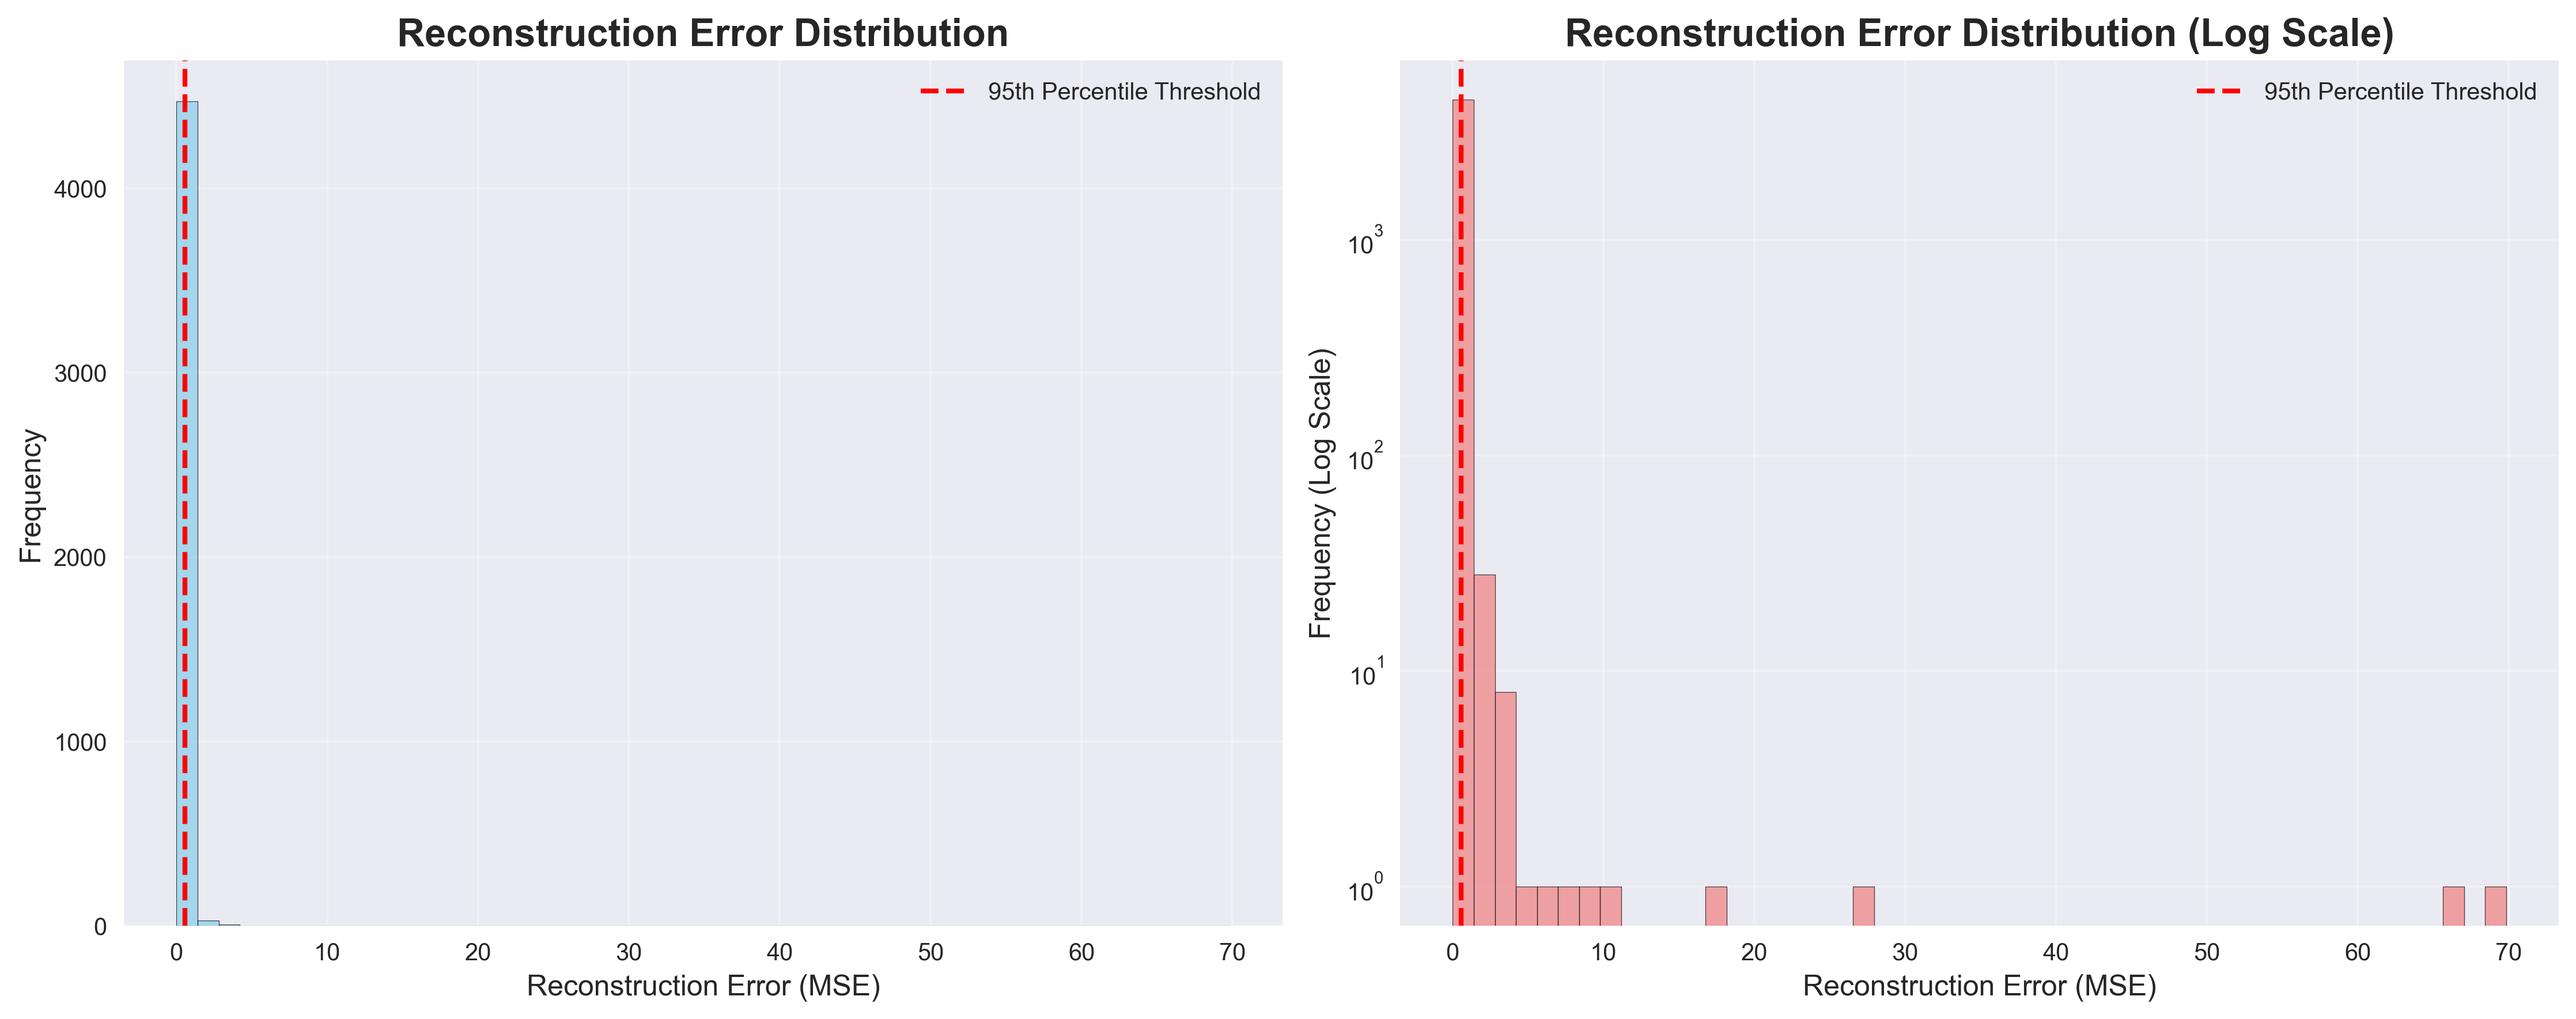
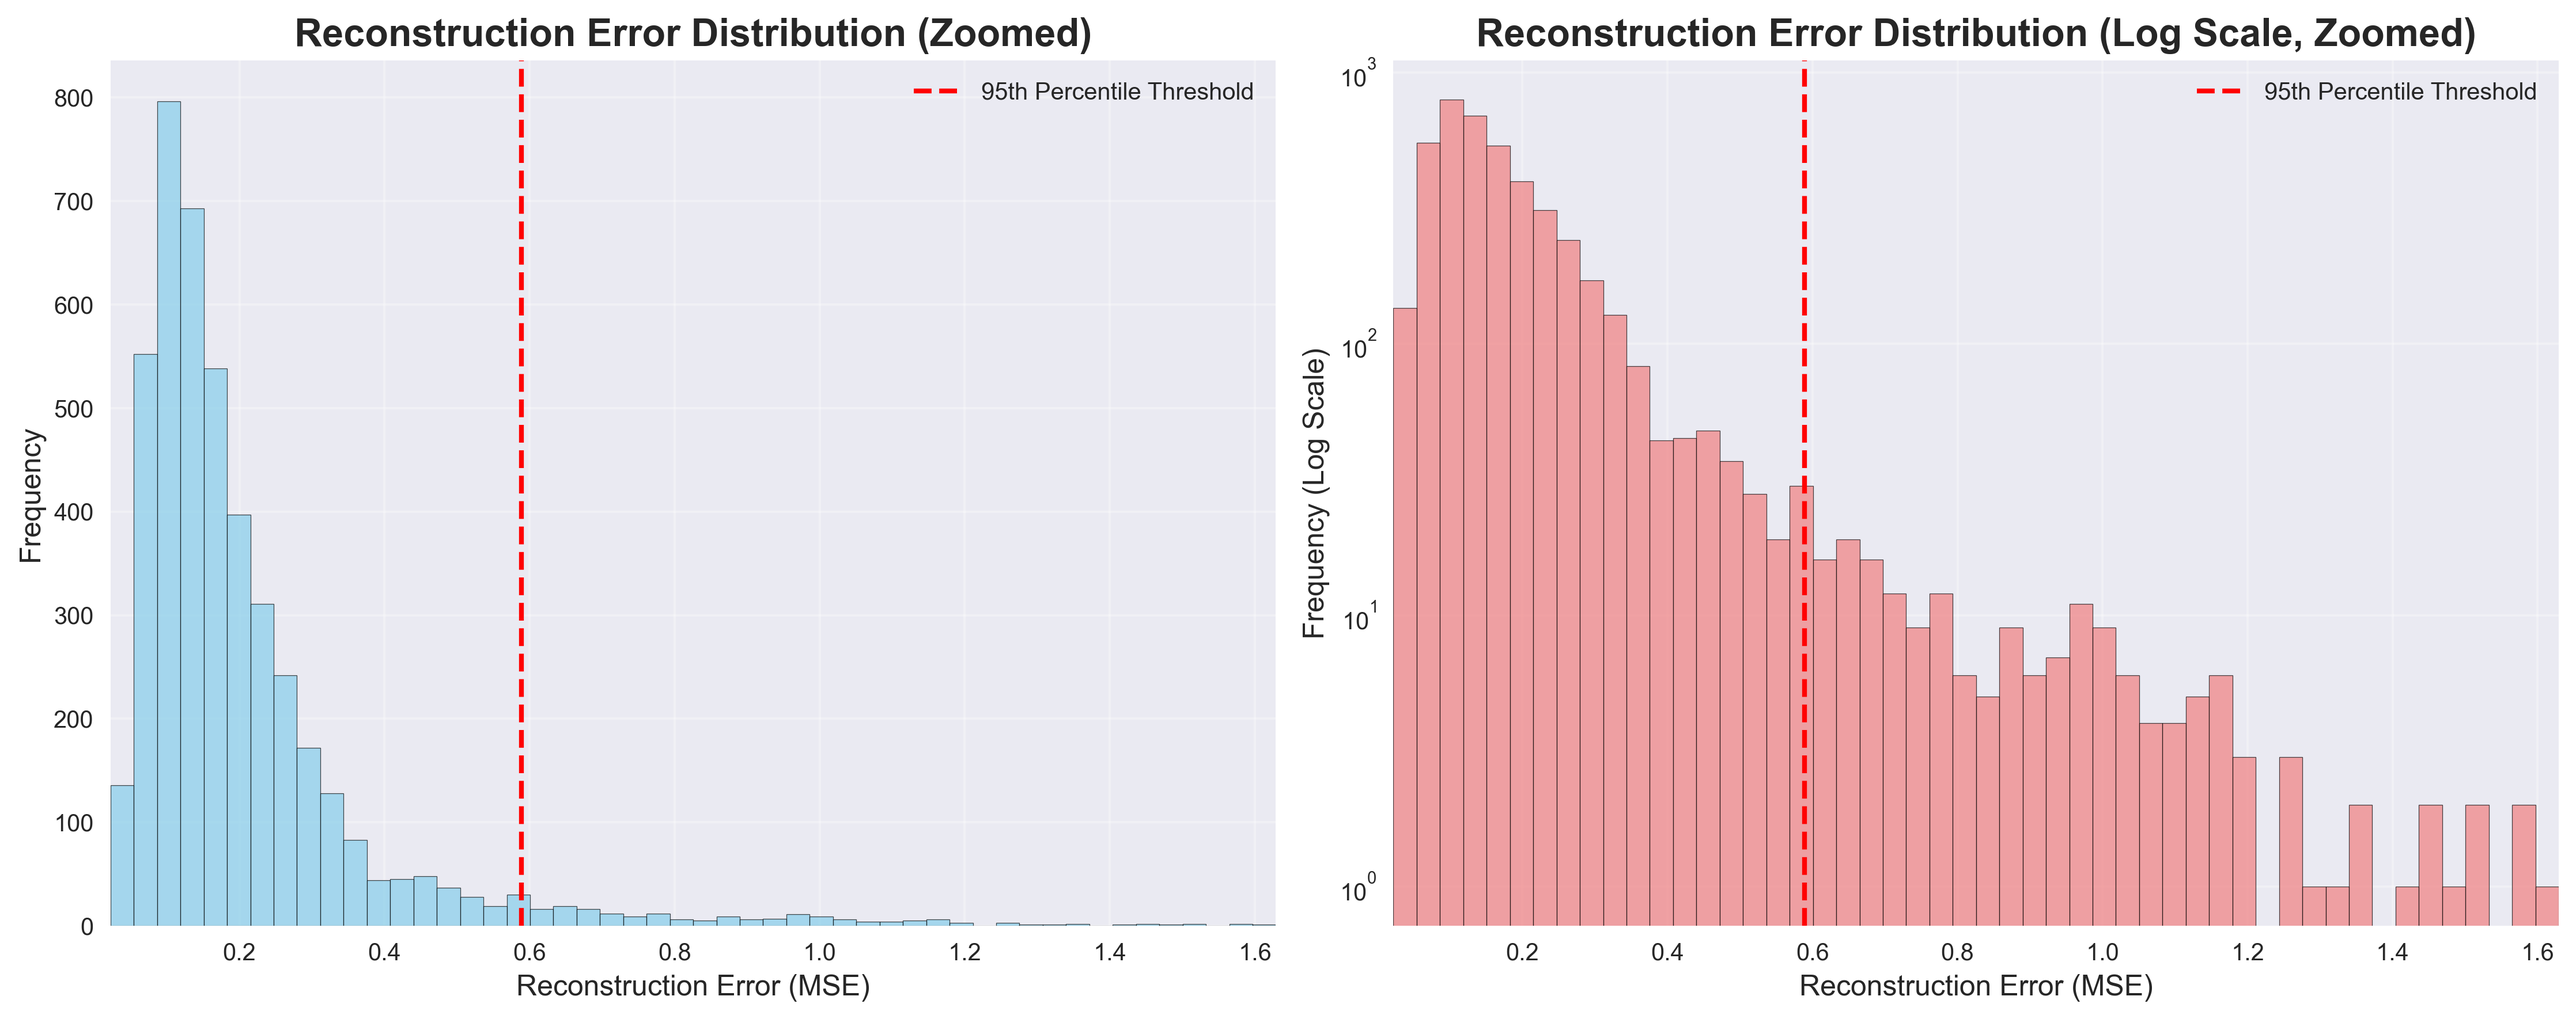
Improve graph visualizations: zoom reconstruction error histogram, show all training epochs, fix latent space t-SNE zoom

diff --git a/src/evaluation/graph_generator.py b/src/evaluation/graph_generator.py
@@ -115,24 +115,33 @@ def generate_graph_2_reconstruction_error_histogram(anomaly_scores_df):
     """Graph 2: Reconstruction Error Histogram - Shows natural separation"""
     fig, (ax1, ax2) = plt.subplots(1, 2, figsize=(15, 6))
     
-    # Overall histogram
-    ax1.hist(anomaly_scores_df['anomaly_score'], bins=50, alpha=0.7, color='skyblue', edgecolor='black')
-    ax1.axvline(anomaly_scores_df['anomaly_score'].quantile(0.95), color='red', linestyle='--', 
-                linewidth=2, label='95th Percentile Threshold')
-    ax1.set_title('Reconstruction Error Distribution', fontsize=16, fontweight='bold')
+    # Calculate appropriate x-axis limits for better visualization
+    scores = anomaly_scores_df['anomaly_score']
+    threshold_95 = scores.quantile(0.95)
+    threshold_99 = scores.quantile(0.99)
+    
+    # Set x-axis limits to focus on the relevant range (up to 99th percentile)
+    x_max = min(threshold_99 * 1.2, scores.max())
+    x_min = max(0, scores.min())
+    
+    # Overall histogram with zoomed x-axis
+    ax1.hist(scores, bins=50, alpha=0.7, color='skyblue', edgecolor='black', range=(x_min, x_max))
+    ax1.axvline(threshold_95, color='red', linestyle='--', linewidth=2, label='95th Percentile Threshold')
+    ax1.set_title('Reconstruction Error Distribution (Zoomed)', fontsize=16, fontweight='bold')
     ax1.set_xlabel('Reconstruction Error (MSE)', fontsize=12)
     ax1.set_ylabel('Frequency', fontsize=12)
+    ax1.set_xlim(x_min, x_max)
     ax1.legend()
     ax1.grid(True, alpha=0.3)
     
-    # Log scale for better visualization
-    ax2.hist(anomaly_scores_df['anomaly_score'], bins=50, alpha=0.7, color='lightcoral', edgecolor='black')
-    ax2.axvline(anomaly_scores_df['anomaly_score'].quantile(0.95), color='red', linestyle='--', 
-                linewidth=2, label='95th Percentile Threshold')
+    # Log scale for better visualization with zoomed x-axis
+    ax2.hist(scores, bins=50, alpha=0.7, color='lightcoral', edgecolor='black', range=(x_min, x_max))
+    ax2.axvline(threshold_95, color='red', linestyle='--', linewidth=2, label='95th Percentile Threshold')
     ax2.set_yscale('log')
-    ax2.set_title('Reconstruction Error Distribution (Log Scale)', fontsize=16, fontweight='bold')
+    ax2.set_title('Reconstruction Error Distribution (Log Scale, Zoomed)', fontsize=16, fontweight='bold')
     ax2.set_xlabel('Reconstruction Error (MSE)', fontsize=12)
     ax2.set_ylabel('Frequency (Log Scale)', fontsize=12)
+    ax2.set_xlim(x_min, x_max)
     ax2.legend()
     ax2.grid(True, alpha=0.3)
     
@@ -235,24 +244,36 @@ def generate_graph_4_training_history(model_info):
         history = model_info['training_history']
         fig, (ax1, ax2) = plt.subplots(1, 2, figsize=(15, 6))
         
-        # Loss plot
-        ax1.plot(history['loss'], label='Training Loss', color='blue', linewidth=2)
-        if 'val_loss' in history:
-            ax1.plot(history['val_loss'], label='Validation Loss', color='red', linewidth=2)
+        # Loss plot - show all epochs
+        epochs = range(1, len(history['loss']) + 1)
+        ax1.plot(epochs, history['loss'], label='Training Loss', color='blue', linewidth=2)
+        if 'val_loss' in history and len(history['val_loss']) > 0:
+            ax1.plot(epochs, history['val_loss'], label='Validation Loss', color='red', linewidth=2)
         ax1.set_title('Training History - Loss', fontsize=16, fontweight='bold')
         ax1.set_xlabel('Epoch', fontsize=12)
         ax1.set_ylabel('Loss', fontsize=12)
+        ax1.set_xlim(1, len(epochs))
         ax1.legend()
         ax1.grid(True, alpha=0.3)
         
-        # Reconstruction error plot
-        if 'reconstruction_error' in history:
-            ax2.plot(history['reconstruction_error'], label='Reconstruction Error', color='green', linewidth=2)
+        # Reconstruction error plot or placeholder
+        if 'reconstruction_error' in history and len(history['reconstruction_error']) > 0:
+            ax2.plot(epochs, history['reconstruction_error'], label='Reconstruction Error', color='green', linewidth=2)
             ax2.set_title('Training History - Reconstruction Error', fontsize=16, fontweight='bold')
             ax2.set_xlabel('Epoch', fontsize=12)
             ax2.set_ylabel('Reconstruction Error', fontsize=12)
+            ax2.set_xlim(1, len(epochs))
             ax2.legend()
             ax2.grid(True, alpha=0.3)
+        else:
+            # Placeholder for missing reconstruction error data
+            ax2.text(0.5, 0.5, 'Reconstruction Error\nNot Available\n\nTraining completed\nsuccessfully with\nloss monitoring only', 
+                    ha='center', va='center', transform=ax2.transAxes, fontsize=12, fontweight='bold',
+                    bbox=dict(boxstyle="round,pad=0.3", facecolor="lightgray", alpha=0.8))
+            ax2.set_title('Training History - Reconstruction Error', fontsize=16, fontweight='bold')
+            ax2.set_xlim(0, 1)
+            ax2.set_ylim(0, 1)
+            ax2.axis('off')
         
         plt.tight_layout()
         save_figure(fig, '04_training_history.png')
@@ -488,6 +509,18 @@ def generate_graph_9_latent_space_visualization(latent_space, y_true):
             ax2.set_title('Latent Space - t-SNE Projection', fontsize=16, fontweight='bold')
             ax2.legend()
             ax2.grid(True, alpha=0.3)
+            
+            # Set appropriate axis limits to zoom in on the data
+            x_min, x_max = latent_2d_tsne[:, 0].min(), latent_2d_tsne[:, 0].max()
+            y_min, y_max = latent_2d_tsne[:, 1].min(), latent_2d_tsne[:, 1].max()
+            
+            # Add some padding to the limits
+            x_padding = (x_max - x_min) * 0.1
+            y_padding = (y_max - y_min) * 0.1
+            
+            ax2.set_xlim(x_min - x_padding, x_max + x_padding)
+            ax2.set_ylim(y_min - y_padding, y_max + y_padding)
+            
         except Exception as e:
             logger.warning(f"t-SNE failed: {e}")
             ax2.text(0.5, 0.5, 't-SNE visualization\nnot available\n(dataset too large)', 
